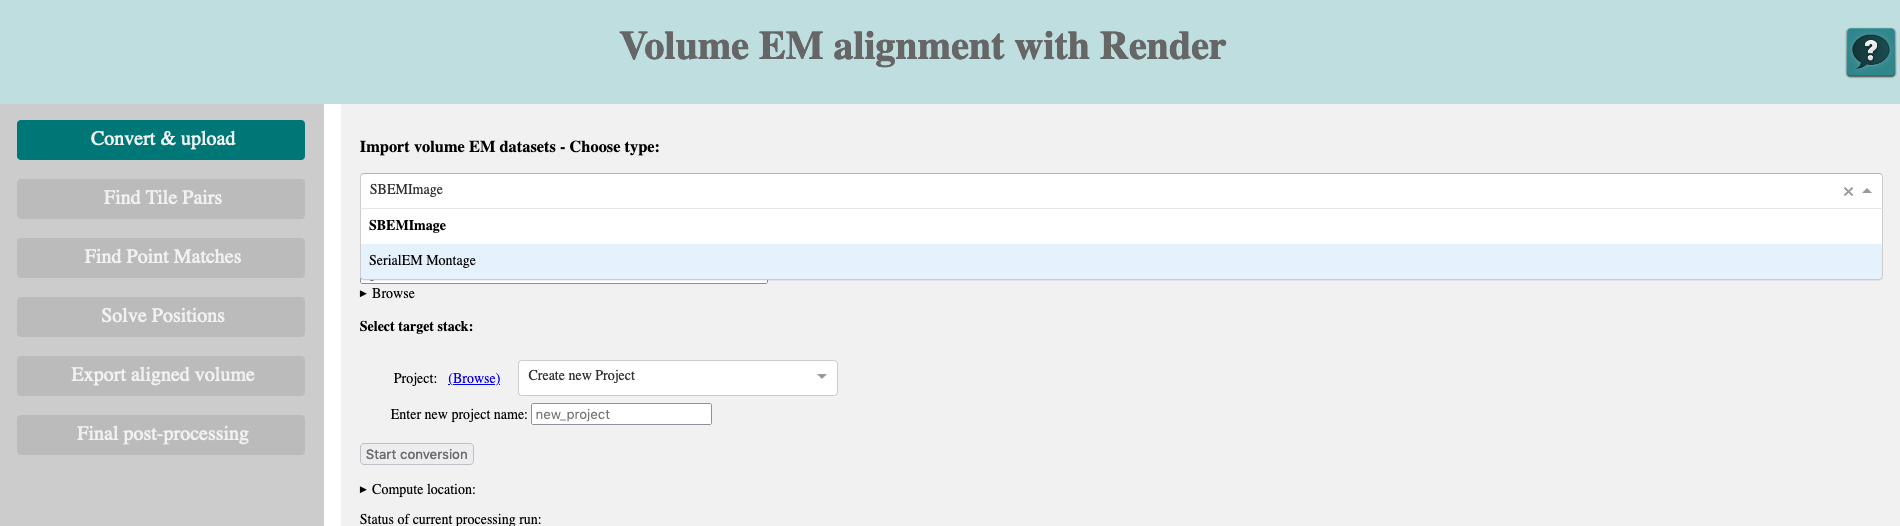
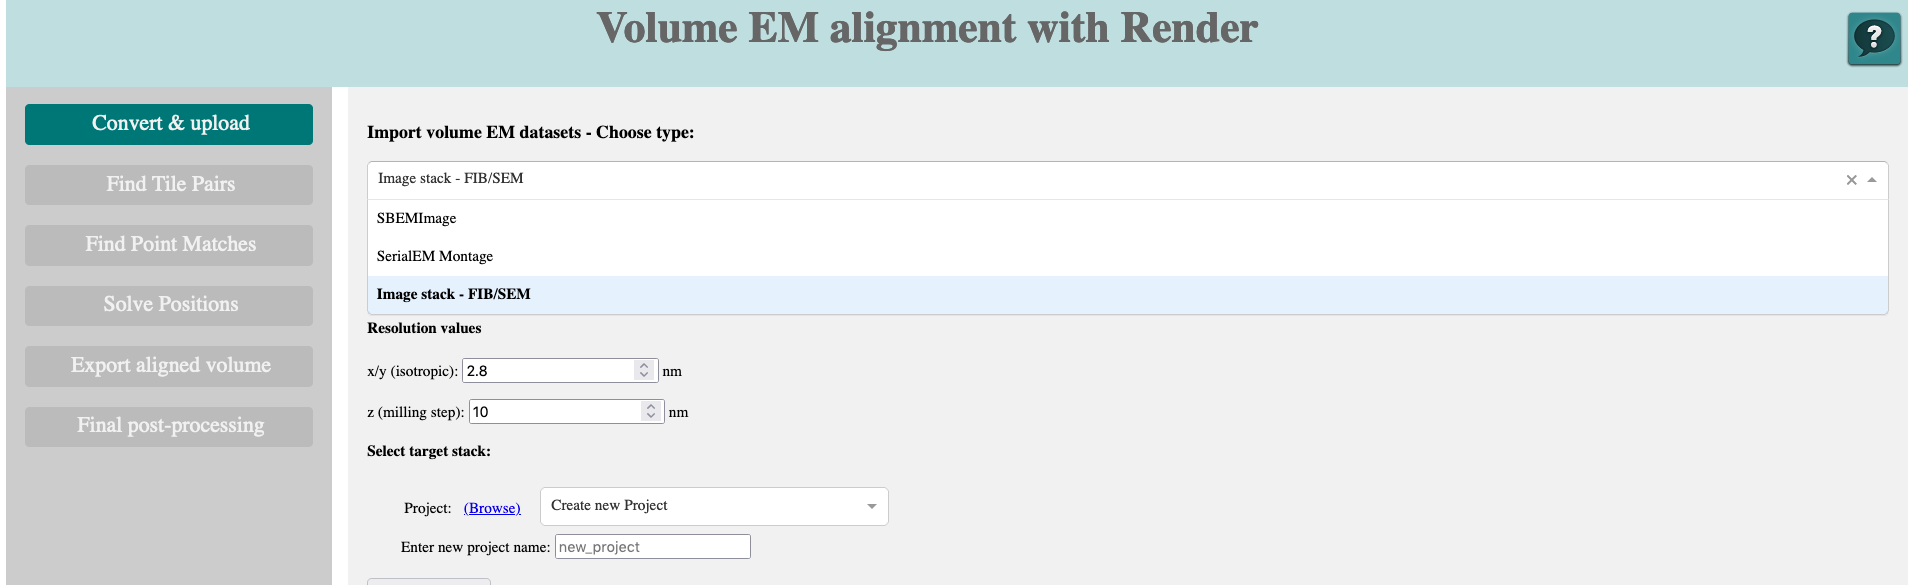
doc - tifstack importer and other updates

Changed region(s): [[0.0, 0.0, 1.0, 1.0], [0.9626, 0.3042, 0.9937, 0.3346]]

diff --git a/docs/usage.md b/docs/usage.md
@@ -38,6 +38,12 @@ This page contains the following elements:
 - **dataset metadata file:** the path of the `idoc` file for the SerialEM (Super)Montage.
 
 - **browse:** use this dropdown to browse the directory. To move up (`..`) multiple times, you have to close the selector (`x` on the very right) for each additional step up.
+
+### Image stack - FIB-SEM
+
+- **dataset root directory:** the directory path where the images are stored. They should be in aplphabetical order according to the layers.
+- **Resolution values:** the pixel sizes in `x/y` and the section spacing in `z` in nm.
+
 ## Generate Tile Pairs
 
 This step will tell Render which of the tiles are neighbours in `x` and `y` and also in `z`. It will then have a collection of pairs that it can try to match with each other all in parallel.
@@ -84,12 +90,17 @@ and
 
 There are also two **Tile Viewers** where you can browse the stack and identify two neighbouring tiles to be used for the match trial.
 
-If you click **Explore MatchTrial**, you will get to the Match Trial web interface. It will show the results of the template trial (the images might not be available).
+If you click **Explore MatchTrial**, the parameters will be used to match the two example tiles and the Match Trial web interface will open in a new browser tab. It will show the results of the trial using the template parameters and the selected tiles.
+
+If you are happy with the result, you can continue launching the procedure for all tiles. The TrialID will be automatically filled from this trial.
+
+#### if you need to adjust parameters because the matches are not good:
+
+Click **Create New Trial** at the top of the page. 
 
 ![matchtrial_template](img/match_trial_create.png "Render WebUI matchTrial")
 
-
-Click **Create New Trial** at the top of the page. This will open the Parameter editor with the parameters defined in the template.
+This will open the Parameter editor with the parameters defined in the template.
 
 ![matchtrial_params](img/match_trial_params.png "Render WebUI matchTrial Parameters")
 
@@ -122,14 +133,16 @@ If you are happy with the parameters, copy the long ID at the very end of the we
 
 There, ***paste it into the text box*** after **Use this Match Trial as compute parameters:**.
 
-These parameters will then be used for the search of all the tiles.
+#### Compute the matches for all tilepairs
+
+The parameters you just defined for the template tile pair will be used for all the tiles in the stack.
 
 With the known number of tile pairs and the estimated run time for each pair from the trial, the necessary compute resources for the stack are predicted and can be checked in **Compute settings**.
 
 ![comp_set](img/webui_comp_set.png "VolumeAlign WebUI pointmatch compute settings")
 
 Launching the computation will request the selected resources on the cluster and then launch a Spark instance on the allocated compute nodes that distributes and manages the parallel computation of the point matches.
-You will receive an email once the computation is done. It will tell you that the computation was `CANCELLED` but this only means that the resource allocation has been ended after successful computation of the matches. If you get a message referring to a `TIMEOUT`, you have to re-run the computation with more generous resource settings.
+You will receive an email once the computation starts (after allocation of the resources) and when it is done. It will tell you that the computation was `COMPLETED` if successful and give you error descriptions otherwise. If you get a message referring to a `TIMEOUT`, you have to re-run the computation with more generous resource settings.
 
 ## Solve Positions
 
@@ -163,11 +176,13 @@ You can export a Render stack at any time to disk ("materialize").
 
 ![export](img/webui_export_slice.png "VolumeAlign WebUI export")
 
-You can **explore slice** to determine the **volume region to consider**.
+You can **explore slice** to determine the **volume region to consider**. Just drag the rectangle on top of the image. If you click **Zoom In**, the viewer and region boundary will adapt to the selection. **Reset Zoom** will bring the viewer back to displaying ther entrire setcion.
 
 At the moment, `N5` or `slice images` are available as **output type**.
 
 It is highly recommended to use N5 (and BDV or MoBIE for visualization) for large volumes or 2D slices. The slice export option can be chosen to produce downscaled images for talks or movie visualizations.
+
+![export](img/webui_export_computesettings.png "VolumeAlign WebUI export")
 
 #### N5
 
@@ -177,7 +192,7 @@ Make sure that the contrast in the slice viewer fits your expectations of the fi
 
 With the known number of tiles and the estimated run time for exporting a slice, the necessary compute resources for the stack are predicted and can be checked in **Compute settings**.
 
-![export](img/webui_export_computesettings.png "VolumeAlign WebUI export")
+
 
 Launching the computation will request the selected resources on the cluster and then launch a Spark instance on the allocated compute nodes that distributes and manages the parallel computation of the point matches.
 You will receive an email once the computation is done. It will tell you that the computation was `CANCELLED` but this only means that the resource allocation has been ended after successful computation of the matches. If you get a message referring to a `TIMEOUT`, you have to re-run the computation with more generous resource settings.
@@ -187,10 +202,11 @@ You will receive an email once the computation is done. It will tell you that th
 This will export your slice(s) into the desired **output file type** which can be either `jpg`,`png`or `tif`.
 
 You can use **Choose output scale** to select the downscaling factor you like your export to have. The dimensions of the output images are shown in the status table in **Compute Settings**. There you can also choose the number of CPUs to use for parallel export.
+
 ## Finalize output format
 
 Here you can finalize your data export (if `N5` was chosen for export) and generate the necessary metadata file to view the volume in BigDataViewer or MoBIE.
 - **BDV-XML:** This will create the `XML`file necessary to view the result in *BigDataViewer*
 - **MoBIE:** you can choose either an existing MoBIE project as output directory into which the aligned images will be added, or a new directory where the script will generate an entirely fresh MoBIE project.
 
-- **Choose exported volume:** This provides a list of already exported volumes. The files have to still reside in the original location on the storage system.
+- **Choose exported volume:** This provides a list of already exported volumes (in N5 format). The files have to still reside in the original location on the storage system.
